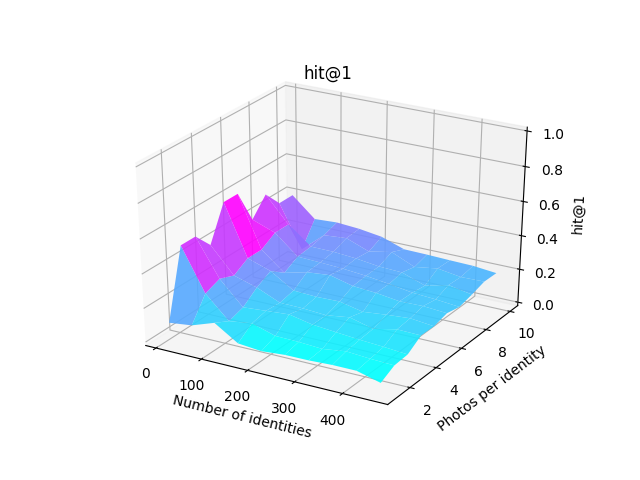
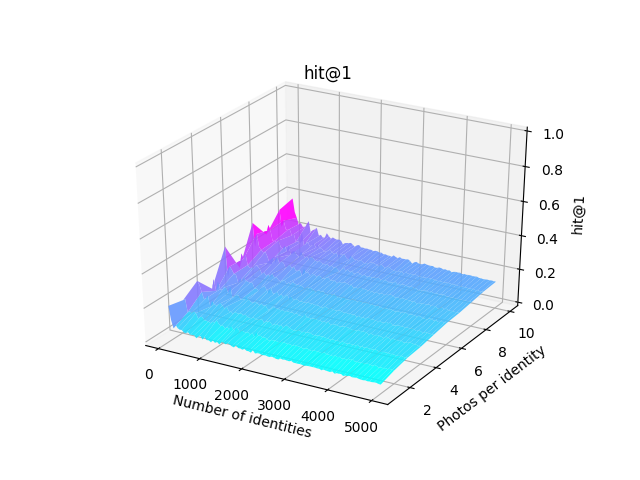
Computed results with more data

diff --git a/evaluation.py b/evaluation.py
@@ -1,3 +1,4 @@
+import numpy
 class QueryEvaluator():
 	def __init__(self):
 		self.numberOfElements=0
@@ -5,6 +6,7 @@ class QueryEvaluator():
 		self.summedHitAt3=0
 		self.summedHitAt1=0
 		self.summedAveragePrecision=0
+		self.listOccurrencePosition = []
 
 	def hitAt10(self, x, queryResults):
 		return x in queryResults[:10]
@@ -14,6 +16,9 @@ class QueryEvaluator():
 	
 	def hitAt1(self, x, queryResults):
 		return x==queryResults[0]
+	
+	def firstOccurrencePosition(self,x,queryResults): #Saves the position of the first occurrence of the queried item
+		return queryResults.index(x)
 	
 	def averagePrecision(self, x, queryResults):
 		counter = 0
@@ -29,10 +34,11 @@ class QueryEvaluator():
 
 	def update(self, query, result):
 		self.numberOfElements+=1
-		self.summedHitAt10+=self.hitAt10(query,result)
-		self.summedHitAt3+=self.hitAt3(query,result)
-		self.summedHitAt1+=self.hitAt1(query,result)
-		self.summedAveragePrecision+=self.averagePrecision(query,result)
+		self.summedHitAt10+=self.hitAt10(query,result[:10])
+		self.summedHitAt3+=self.hitAt3(query,result[:10])
+		self.summedHitAt1+=self.hitAt1(query,result[:10])
+		self.summedAveragePrecision+=self.averagePrecision(query,result[:50])
+		self.listOccurrencePosition.append(self.firstOccurrencePosition(query,result))
 	
 	def getEvaluation(self):
 		result = {}
@@ -40,4 +46,6 @@ class QueryEvaluator():
 		result['hit@3']=self.summedHitAt3/float(self.numberOfElements)
 		result['hit@1']=self.summedHitAt1/float(self.numberOfElements)
 		result['MAP']=self.summedAveragePrecision/float(self.numberOfElements)
+		result['FOP95']=numpy.percentile(self.listOccurrencePosition, 95)
+		result['FOP99']=numpy.percentile(self.listOccurrencePosition, 99)
 		return result

diff --git a/inference.py b/inference.py
@@ -136,9 +136,8 @@ if __name__ == "__main__":
 		
 	toDbEmbeddings = getEmbeddings('dataset/todb')
 	toKeepEmbeddings = getEmbeddings('dataset/tokeep')
-	toDbEmbeddings, toKeepEmbeddings = trimData(toDbEmbeddings, toKeepEmbeddings, 500, 10)
 	results = []
-	for numberOfIdentities in tqdm.tqdm(xrange(10,501,50)):
+	for numberOfIdentities in tqdm.tqdm(xrange(50,5001,50)):
 		for numberOfPhotosPerIdentity in xrange(1,11):
 			toDB,toKeep = trimData(toDbEmbeddings, toKeepEmbeddings, numberOfIdentities, numberOfPhotosPerIdentity)
 			currentResults = testDB(toDB, toKeep)

diff --git a/sampling.py b/sampling.py
@@ -7,7 +7,7 @@ random.seed(0)
 
 identitiesFD = tarfile.open("identities_tight_cropped.tar.gz")
 
-numberOfIdentities = 50000
+numberOfIdentities = 5000
 numberOfPhotosPerIdentity = 11
 
 print "Retrieving files in archive..."
@@ -46,9 +46,9 @@ if not os.path.exists("dataset/tokeep"):
 todb = set()
 tokeep = set()
 for identity in finalSamples:
-	todb.add(identity[0])
-	todb.add(identity[1])
-	tokeep.add(identity[2])
+	tokeep.add(identity[0])
+	for i in xrange(1,len(identity)):
+		todb.add(identity[i])
 
 identitiesFD.close()
 
